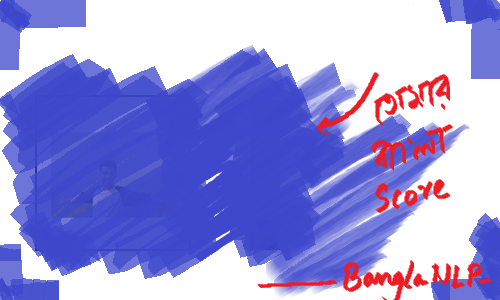
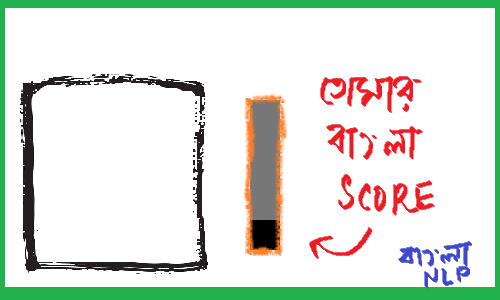
testing fb login

diff --git a/webApp/static/test.html b/webApp/static/test.html
@@ -66,7 +66,7 @@
                     var fillVal = Math.min(Math.max(val / max, 0), 1);
                     if (direction === 'vertical') {
                         ctx.fillRect(250,100, width, (max-val)*height/max );
-                        ctx.strokeRect(248, 98, 32, 150);
+                        // ctx.strokeRect(248, 98, 32, 150);
 
                     } else {
                         ctx.fillRect(200, 100, fillVal * width, height);
@@ -90,16 +90,11 @@
 
                             base_image.onload = function(){
                                 ctx.drawImage(base_image, 40, 100,150,150);
-                                ctx.strokeRect(36, 96, 154, 154);
-                            }
-                            base_image.crossOrigin = "anonymous";
-                            base_image.src = "https://graph.facebook.com/" + response.id + "/picture?type=large";
-                            
-                            drawScrollbar();
-                            ctx.font = "30px Arial";
-                            ctx.strokeText(response.name.split(" ")[0]+"'s Bangla Score'", 10, 50);
-                            setTimeout(function(){
+                                // ctx.strokeRect(36, 96, 154, 154);
                                 var dataURL = canvas.toDataURL('image/jpeg');
+                                drawScrollbar();
+                                ctx.font = "30px Arial";
+                                ctx.fillText(response.name, 10, 50);
                                 console.log(dataURL);
                                 $.ajax({
                                     type: "POST", 
@@ -112,7 +107,12 @@
                                     href: 'https://bn-trans.herokuapp.com/get_im?q='+user,
                                 }, function(response){});
                                 });
-                            }, 2000);
+                            }
+                            base_image.crossOrigin = "anonymous";
+                            base_image.src = "https://graph.facebook.com/" + response.id + "/picture?type=large";
+                            
+                            
+                            
                             
                             
 

diff --git a/webApp/app.py b/webApp/app.py
@@ -25,7 +25,6 @@ def convert_and_save(data_uri,fn='im.jpg'):
     print(path.exists("/app/static/"+fn))
 
 
-
 @app.route('/test')
 def test():
     return render_template('test.html')
